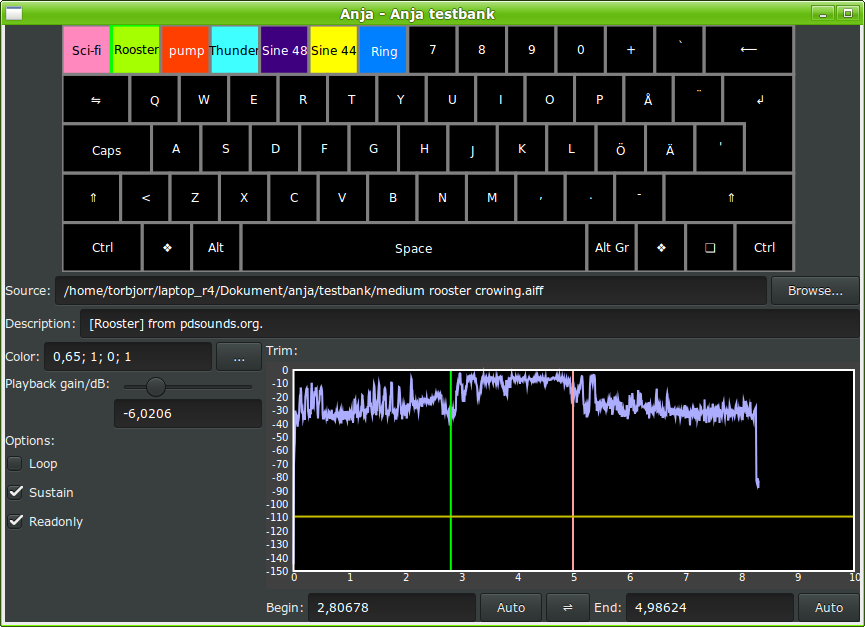
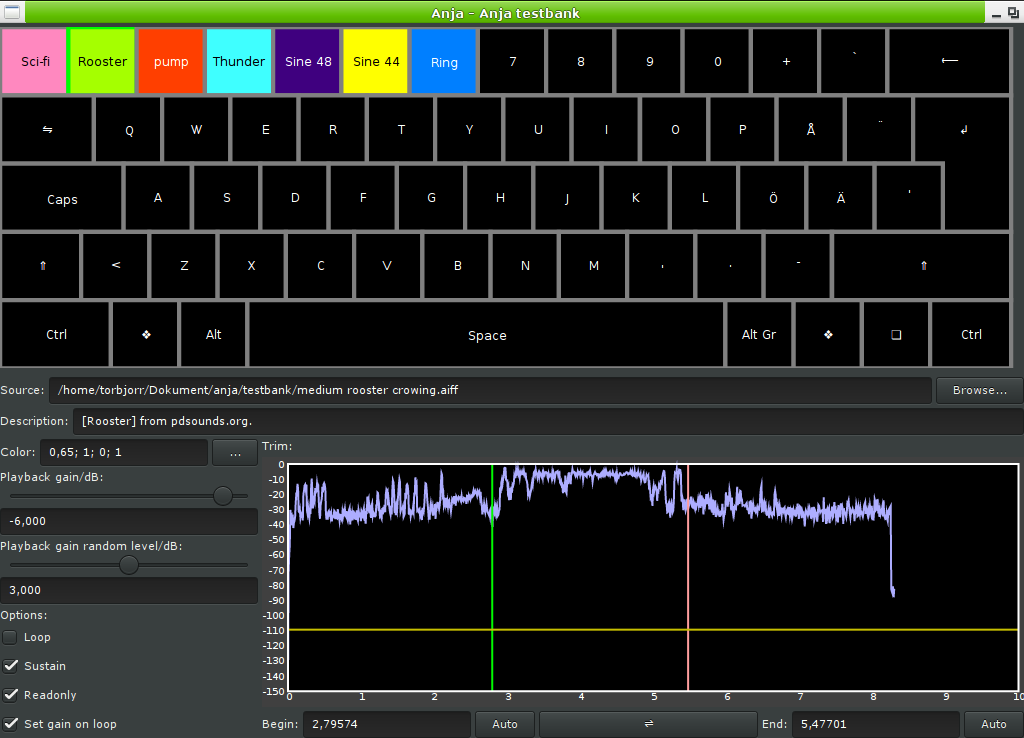
Layout thing

diff --git a/sessionview.cpp b/sessionview.cpp
@@ -37,7 +37,7 @@ SessionView::SessionView(GuiContainer& parent,Session& session
 	m_keyboard=KeyboardView::create(*m_box,session.keyboardLayoutGet(),keyboard_input);
 
 	m_box->insertModeSet(BoxVertical::INSERTMODE_END
-		|BoxVertical::INSERTMODE_EXPAND|BoxVertical::INSERTMODE_FILL);
+		|BoxVertical::INSERTMODE_FILL);
 	m_dataview=WaveformDataView::create(*m_box,data_eventhandler,rangeview_handler);
 
 	sessionSet(session);
